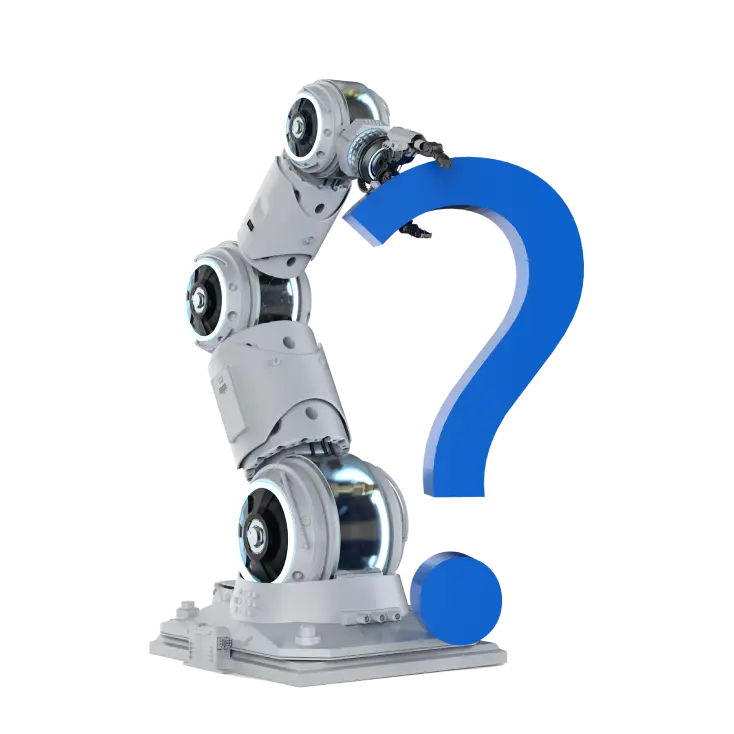
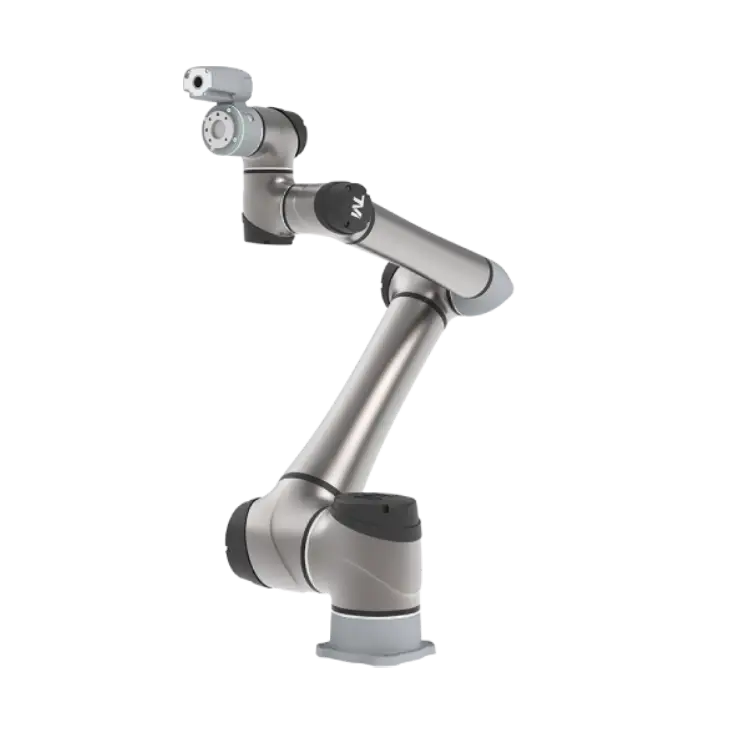
Update gallery items in gallery.html and enhance product section layout in index.html with improved styling in main.css
Update gallery items in gallery.html and enhance product section layout in index.html with improved styling in main.css

Changed region(s): [[0.1798, 0.0899, 0.8093, 0.9591]]

diff --git a/gallery.html b/gallery.html
@@ -109,78 +109,92 @@
       <div class="container">
          <!-- TAB SECTION START -->
          <div class="describtion__reviews">
-            <ul class="nav nav-tabs gallery-tab" id="myTab" role="tablist">
-               <li class="nav-item" role="presentation">
-                  <button class="nav-link active" id="home-tab" data-bs-toggle="tab" data-bs-target="#home"
-                     type="button" role="tab" aria-controls="home" aria-selected="true">
-                     <h5 class="m-0"> AI Cobot </h5>
-                  </button>
-               </li>
-               <li class="nav-item" role="presentation">
-                  <button class="nav-link" id="profile-tab" data-bs-toggle="tab" data-bs-target="#profile" type="button"
-                     role="tab" aria-controls="profile" aria-selected="false" tabindex="-1">
-                     <h5 class="m-0"> AI Cobot S </h5>
-                  </button>
-               </li>
-            </ul>
+          
             <div class="tab-content" id="describtion">
                <div class="tab-pane fade active show" id="home" role="tabpanel" aria-labelledby="home-tab">
                   <!-- videos -->
                   <div class="row g-4">
+
                      <div class="col-xxl-3 col-xl-4 col-lg-4 col-md-6 col-sm-6">
                         <div class="gallery__item">
-                           <a data-fancybox="gallery" href="./assets/img/AI-Cobot/TM5700_img.png">
-                              <img src="./assets/img/AI-Cobot/TM5700_img.png" alt="TM5-700">
+                           <a data-fancybox="gallery" href="./assets/img/AI-Cobot-s/TM5S.png">
+                              <img src="./assets/img/AI-Cobot-s/TM5S.png" alt="TM5S">
                            </a>
-                           <h5> <a href="./products/tm5-700-techmanrobot.html"> TM5-700 </a> </h5>
+                           <h5> <a href="./products/tm5s-techmanrobot.html"> TM5S </a> </h5>
                         </div>
                      </div>
+
                      <div class="col-xxl-3 col-xl-4 col-lg-4 col-md-6 col-sm-6">
                         <div class="gallery__item">
-                           <a data-fancybox="gallery" href="./assets/img/AI-Cobot/TM5900.png">
-                              <img src="./assets/img/AI-Cobot/TM5900.png" alt="TM5-900">
+                           <a data-fancybox="gallery" href="./assets/img/AI-Cobot-s/TM6S.png">
+                              <img src="./assets/img/AI-Cobot-s/TM6S.png" alt="TM6S">
                            </a>
-                           <h5> <a href="./products/tm5-900-techmanrobot.html"> TM5-900 </a> </h5>
+                           <h5> <a href="./products/tm6s-techmanrobot.html"> TM6S </a> </h5>
                         </div>
                      </div>
+
                      <div class="col-xxl-3 col-xl-4 col-lg-4 col-md-6 col-sm-6">
                         <div class="gallery__item">
-                           <a data-fancybox="gallery" href="./assets/img/AI-Cobot/TM12.png">
-                              <img src="./assets/img/AI-Cobot/TM12.png" alt="TM12">
+                           <a data-fancybox="gallery" href="./assets/img/AI-Cobot-s/TM7S.png">
+                              <img src="./assets/img/AI-Cobot-s/TM7S.png" alt="TM7S">
                            </a>
-                           <h5> <a href="./products/tm12-techmanrobot.html"> TM12 </a> </h5>
+                           <h5> <a href="./products/tm7s-techmanrobot.html"> TM7S </a> </h5>
                         </div>
                      </div>
+
                      <div class="col-xxl-3 col-xl-4 col-lg-4 col-md-6 col-sm-6">
                         <div class="gallery__item">
-                           <a data-fancybox="gallery" href="./assets/img/AI-Cobot/TM14.png">
-                              <img src="./assets/img/AI-Cobot/TM14.png" alt="TM14">
+                           <a data-fancybox="gallery" href="./assets/img/AI-Cobot-s/TM12S.png">
+                              <img src="./assets/img/AI-Cobot-s/TM12S.png" alt="TM12S">
                            </a>
-                           <h5> <a href="./products/tm14-techmanrobot.html"> TM14 </a> </h5>
+                           <h5> <a href="./products/tm12s-techmanrobot.html"> TM12S </a> </h5>
                         </div>
                      </div>
+
                      <div class="col-xxl-3 col-xl-4 col-lg-4 col-md-6 col-sm-6">
                         <div class="gallery__item">
-                           <a data-fancybox="gallery" href="./assets/img/AI-Cobot/TM16.png">
-                              <img src="./assets/img/AI-Cobot/TM16.png" alt="TM16">
+                           <a data-fancybox="gallery" href="./assets/img/AI-Cobot-s/TM14S.png">
+                              <img src="./assets/img/AI-Cobot-s/TM14S.png" alt="TM14S">
                            </a>
-                           <h5> <a href="./products/tm16-techmanrobot.html"> TM16 </a> </h5>
+                           <h5> <a href="./products/tm14s-techmanrobot.html"> TM14S </a> </h5>
                         </div>
                      </div>
+
                      <div class="col-xxl-3 col-xl-4 col-lg-4 col-md-6 col-sm-6">
                         <div class="gallery__item">
-                           <a data-fancybox="gallery" href="./assets/img/AI-Cobot/TM12.png">
-                              <img src="./assets/img/AI-Cobot/TM12.png" alt="TM20">
+                           <a data-fancybox="gallery" href="./assets/img/AI-Cobot-s/TM20S.png">
+                              <img src="./assets/img/AI-Cobot-s/TM20S.png" alt="TM20S">
                            </a>
-                           <h5> <a href="./products/tm20-techmanrobot.html"> TM20 </a> </h5>
+                           <h5> <a href="./products/tm20s-techmanrobot.html"> TM20S </a> </h5>
                         </div>
                      </div>
+
                      <div class="col-xxl-3 col-xl-4 col-lg-4 col-md-6 col-sm-6">
                         <div class="gallery__item">
-                           <a data-fancybox="gallery" href="./assets/img/AI-Cobot/AI-Mobile-Cobot.png">
-                              <img src="./assets/img/AI-Cobot/AI-Mobile-Cobot.png" alt="AI-Mobile-Cobot">
+                           <a data-fancybox="gallery" href="./assets/img/AI-Cobot-s/TM25S.png">
+                              <img src="./assets/img/AI-Cobot-s/TM25S.png" alt="TM25S">
                            </a>
-                           <h5> <a href="./products/mobile-solution-techmanrobot.html"> AI Mobile Cobot </a> </h5>
+                           <h5> <a href="./products/tm25s-techmanrobot.html"> TM25S </a> </h5>
+                        </div>
+                     </div>
+
+                     <div class="col-xxl-3 col-xl-4 col-lg-4 col-md-6 col-sm-6">
+                        <div class="gallery__item">
+                           <a data-fancybox="gallery" href="./assets/img/AI-Cobot-s/TM30S.png">
+                              <img src="./assets/img/AI-Cobot-s/TM30S.png" alt="TM30S">
+                           </a>
+                           <h5> <a href="./products/tm30s-techmanrobot.html"> TM30S </a> </h5>
+                        </div>
+                     </div>
+
+                     <div class="col-xxl-3 col-xl-4 col-lg-4 col-md-6 col-sm-6">
+                        <div class="gallery__item">
+                           <a data-fancybox="gallery" href="./assets/img/AI-Cobot-s/Rugged-Cobot-Solution.png">
+                              <img src="./assets/img/AI-Cobot-s/Rugged-Cobot-Solution.png"
+                                 alt="Rugged Cobot Solution">
+                           </a>
+                           <h5> <a href="./products/rugged-solution-techmanrobot.html"> Rugged Cobot Solution </a>
+                           </h5>
                         </div>
                      </div>
 
@@ -189,98 +203,7 @@
 
 
                   <!-- videos -->
-               </div>
-               <div class="tab-pane fade" id="profile" role="tabpanel" aria-labelledby="profile-tab">
-                  <div class="reviews__boxes">
-                     <div class="row g-4">
-
-                        <div class="col-xxl-3 col-xl-4 col-lg-4 col-md-6 col-sm-6">
-                           <div class="gallery__item">
-                              <a data-fancybox="gallery" href="./assets/img/AI-Cobot-s/TM5S.png">
-                                 <img src="./assets/img/AI-Cobot-s/TM5S.png" alt="TM5S">
-                              </a>
-                              <h5> <a href="./products/tm5s-techmanrobot.html"> TM5S </a> </h5>
-                           </div>
-                        </div>
-
-                        <div class="col-xxl-3 col-xl-4 col-lg-4 col-md-6 col-sm-6">
-                           <div class="gallery__item">
-                              <a data-fancybox="gallery" href="./assets/img/AI-Cobot-s/TM6S.png">
-                                 <img src="./assets/img/AI-Cobot-s/TM6S.png" alt="TM6S">
-                              </a>
-                              <h5> <a href="./products/tm6s-techmanrobot.html"> TM6S </a> </h5>
-                           </div>
-                        </div>
-
-                        <div class="col-xxl-3 col-xl-4 col-lg-4 col-md-6 col-sm-6">
-                           <div class="gallery__item">
-                              <a data-fancybox="gallery" href="./assets/img/AI-Cobot-s/TM7S.png">
-                                 <img src="./assets/img/AI-Cobot-s/TM7S.png" alt="TM7S">
-                              </a>
-                              <h5> <a href="./products/tm7s-techmanrobot.html"> TM7S </a> </h5>
-                           </div>
-                        </div>
-
-                        <div class="col-xxl-3 col-xl-4 col-lg-4 col-md-6 col-sm-6">
-                           <div class="gallery__item">
-                              <a data-fancybox="gallery" href="./assets/img/AI-Cobot-s/TM12S.png">
-                                 <img src="./assets/img/AI-Cobot-s/TM12S.png" alt="TM12S">
-                              </a>
-                              <h5> <a href="./products/tm12s-techmanrobot.html"> TM12S </a> </h5>
-                           </div>
-                        </div>
-
-                        <div class="col-xxl-3 col-xl-4 col-lg-4 col-md-6 col-sm-6">
-                           <div class="gallery__item">
-                              <a data-fancybox="gallery" href="./assets/img/AI-Cobot-s/TM14S.png">
-                                 <img src="./assets/img/AI-Cobot-s/TM14S.png" alt="TM14S">
-                              </a>
-                              <h5> <a href="./products/tm14s-techmanrobot.html"> TM14S </a> </h5>
-                           </div>
-                        </div>
-
-                        <div class="col-xxl-3 col-xl-4 col-lg-4 col-md-6 col-sm-6">
-                           <div class="gallery__item">
-                              <a data-fancybox="gallery" href="./assets/img/AI-Cobot-s/TM20S.png">
-                                 <img src="./assets/img/AI-Cobot-s/TM20S.png" alt="TM20S">
-                              </a>
-                              <h5> <a href="./products/tm20s-techmanrobot.html"> TM20S </a> </h5>
-                           </div>
-                        </div>
-
-                        <div class="col-xxl-3 col-xl-4 col-lg-4 col-md-6 col-sm-6">
-                           <div class="gallery__item">
-                              <a data-fancybox="gallery" href="./assets/img/AI-Cobot-s/TM25S.png">
-                                 <img src="./assets/img/AI-Cobot-s/TM25S.png" alt="TM25S">
-                              </a>
-                              <h5> <a href="./products/tm25s-techmanrobot.html"> TM25S </a> </h5>
-                           </div>
-                        </div>
-
-                        <div class="col-xxl-3 col-xl-4 col-lg-4 col-md-6 col-sm-6">
-                           <div class="gallery__item">
-                              <a data-fancybox="gallery" href="./assets/img/AI-Cobot-s/TM30S.png">
-                                 <img src="./assets/img/AI-Cobot-s/TM30S.png" alt="TM30S">
-                              </a>
-                              <h5> <a href="./products/tm30s-techmanrobot.html"> TM30S </a> </h5>
-                           </div>
-                        </div>
-
-                        <div class="col-xxl-3 col-xl-4 col-lg-4 col-md-6 col-sm-6">
-                           <div class="gallery__item">
-                              <a data-fancybox="gallery" href="./assets/img/AI-Cobot-s/Rugged-Cobot-Solution.png">
-                                 <img src="./assets/img/AI-Cobot-s/Rugged-Cobot-Solution.png"
-                                    alt="Rugged Cobot Solution">
-                              </a>
-                              <h5> <a href="./products/rugged-solution-techmanrobot.html"> Rugged Cobot Solution </a>
-                              </h5>
-                           </div>
-                        </div>
-
-
-                     </div>
-                  </div>
-               </div>
+               </div> 
             </div>
          </div>
          <!-- TAB SECTION END -->

diff --git a/assets/css/main.css b/assets/css/main.css
@@ -14699,6 +14699,81 @@ body > #exampleModalCenter.modal .modal-content #product_form label.product-form
   }
 }
 
+/* Our Product (index) — compact card on all devices */
+.shop__section .our-product-items .row.g-4,
+.shop__section .our-product-items .row.g-4.d-flex-all,
+.shop__section .our-product-items .row.g-4.align-items-start {
+  align-items: flex-start !important;
+}
+
+.shop__section .our-product-items .row.g-4 > [class*="col-"] {
+  display: block; 
+}
+
+.shop__section .our-product-items .shop__items {
+  display: flex;
+  flex-direction: column;
+  width: 100%;
+  height: auto;
+  max-width: 380px;
+  margin-left: auto;
+  margin-right: auto;
+}
+
+.shop__section .our-product-items .shop__items .thumb img {
+  width: 70%;
+}
+
+.shop__section .our-product-items .shop__items .content {
+  flex: 0 0 auto;
+  padding: 16px 16px 20px;
+  text-align: center;
+}
+
+.shop__section .our-product-items .shop__items .content .price__wrap,
+.shop__section .our-product-items .shop__items .content .price__wrap .price {
+  flex: 0 0 auto;
+  align-items: center;
+}
+
+.shop__section .our-product-items .shop__items .content .price__wrap .price,
+.shop__section .our-product-items .shop__items .content .price__wrap .price p {
+  text-align: center;
+}
+
+.shop__section .our-product-items .shop__items .content .shop__btn {
+  position: static;
+  margin-top: 12px;
+  padding-top: 0;
+}
+
+.shop__section .our-product-items .shop__items .content > a.cmn--btn {
+  margin-top: 12px;
+}
+
+@media (min-width: 1240px) and (max-width: 1399px) {
+  .shop__section .our-product-items .row.g-4 > [class*="col-"] {
+    display: block;
+    align-self: flex-start;
+  }
+
+  .shop__section .our-product-items .shop__items .content .price__wrap .price p {
+    min-height: 0;
+  }
+}
+
+@media (max-width: 991px) {
+  .shop__section .our-product-items .shop__items {
+    max-width: 420px;
+  }
+}
+
+@media (max-width: 575px) {
+  .shop__section .our-product-items .shop__items {
+    max-width: 100%;
+  }
+}
+
 .shop__items .content .price__wrap .price_hide {
   color: var(--place2);
   font-size: 16px;
@@ -17016,7 +17091,7 @@ body > #exampleModalCenter.modal .modal-content #product_form label.product-form
 /* gallery area start */
 
 .gallery__section {
-  padding: 50px 0 50px;
+  padding: 90px 0 50px;
 }
 
 .gallery__section .gallery__item {

diff --git a/index.html b/index.html
@@ -222,18 +222,30 @@
          <div class="row our-product-items">
             <!--col grid-->
             <div class="col-xxl-12 col-xl-12 col-lg-12">
-               <div class="row g-4 d-flex-all pt-0 align-items-start">
+               <div class="row g-4 d-flex-all justify-content-around pt-0 align-items-center">
 
 
-                  <div class="col-xxl-4 col-lg-5 col-md-6 col-sm-12 d-flex justify-content-center align-items-center">
+                  <div class="col-xxl-6 col-lg-6 col-md-6 col-sm-12 d-flex justify-content-center align-items-center">
                           <!--Section header-->
-         <div class="section__header section__center wow fadeInUp" data-wow-duration="2s">
+         <div class="wow fadeInUp" data-wow-duration="2s">
             <h2> Our Product </h2>
             <h4> Techman Collaborative Robots
             </h4>
-            <p class="pb__32">
+            <p class="pb__32 text-black">
                Techman’s advanced collaborative robot lineup features two series- AI cobot and AI Cobot S, that combine
                intelligent technology with precise motion tracking.
+
+            </p>
+            <p class="pb__32 text-black">
+                Lorem ipsum dolor sit, amet consectetur adipisicing elit. Fugit aperiam 
+               ipsum odit soluta tempora impedit aliquam similique delectus unde error nemo, 
+               tenetur, quas ratione voluptate, excepturi pariatur minima. Rerum, voluptas!
+
+            </p>
+            <p class="pb__32 text-black">
+                Lorem ipsum dolor sit, amet consectetur adipisicing elit. Fugit aperiam 
+               ipsum odit soluta tempora impedit aliquam similique delectus unde error nemo, 
+               tenetur, quas ratione voluptate, excepturi pariatur minima. Rerum, voluptas!
 
             </p>
 
@@ -255,23 +267,19 @@
                                  AI Cobot S
                               </a>
                            </h4>
-                           <span class="price__wrap pb-1">
+                           <span class="price__wrap">
                               <span class="price">
-                                 <p>
-                                    AI Cobot S series includes smart cobots that efficiently handles multiple tasks such
-                                    as packaging..
-
-                                 </p>
+                                 AI Cobot S series includes smart cobots that efficiently handles multiple tasks such
+                                 as packaging..
                               </span>
-
                            </span>
-
-                           <a href="ai-cobot-s.html" class="cmn--btn border__btn">
-                              <span>
-                                 View More
-                              </span>
-                           </a>
-
+                           <div class="shop__btn">
+                              <a href="ai-cobot-s.html" class="cmn--btn border__btn">
+                                 <span>
+                                    View More
+                                 </span>
+                              </a>
+                           </div>
                         </div>
                      </div>
                   </div>